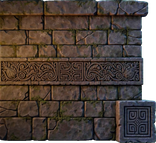
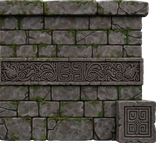
Goliath's yard: Glen's evenly lit wall pieces, moss kept (Glen 11-16)
Claude-Session: https://claude.ai/code/session_018JCxWJ972csv1aoHy7ivxa

diff --git a/game/region.js b/game/region.js
@@ -146,7 +146,7 @@ const KIT = {
   // (stone: the top of the stone, px up from the piece's bottom), a boulder, the olive tree with its branch to stand on,
   // the round watchtower, a field gate, a low wall, a fig tree; and the foreground plants (fg_*: drawn over David, sliding faster)
   f_wall_left: { w: 187, h: 164, stone: 141 }, f_wall_mid: { w: 177, h: 151, stone: 141 }, f_wall_right: { w: 176, h: 162, stone: 141 },
-  w3_ywall_left: { w: 155, h: 143 }, w3_ywall_mid: { w: 144, h: 143 }, w3_ywall_right: { w: 156, h: 143 },   // (Glen 11-16: Goliath's yard, dark carved stone to match his door; tools/cut_yard_wall.py)
+  w3_ywall_left: { w: 153, h: 143 }, w3_ywall_mid: { w: 142, h: 143 }, w3_ywall_right: { w: 156, h: 143 },   // (Glen 11-16: Goliath's yard, dark carved stone to match his door; tools/cut_yard_wall.py)
   f_rock: { w: 179, h: 117 }, f_ezel: { w: 211, h: 519 }, f_olive: { w: 536, h: 520 }, f_tower: { w: 281, h: 376 }, f_tower_low: { w: 281, h: 290 }, f_gate: { w: 178, h: 159 },   // (f_tower_low, 11-11: the bottom 86 px off, so it stands sunk in the ground: the Road to Nob)
   f_lowwall: { w: 202, h: 83 }, f_fig: { w: 252, h: 256 }, fg_grass: { w: 313, h: 310 }, fg_branch: { w: 218, h: 457 }, fg_thorn: { w: 317, h: 191 },
   // (Glen 11-05) the Town kit, assets/rooms/gibeah/kit_town: flat roofs in three (top: the walking top, px down from the

diff --git a/tools/cut_yard_wall.py b/tools/cut_yard_wall.py
@@ -6,7 +6,7 @@ import numpy as np
 from PIL import Image
 from scipy import ndimage
 SRC, OUT, H = "../david-sling-2-art/w3/source/yard_wall_", "assets/rooms/w3/kit/w3_ywall_", 143
-LIFT = 1.45
+LIFT = 1.0   # (11-16: his second set, evenly lit; 1.45 for the first, dusk-lit set, kept as *_dusk.png)
 for part in ("left", "mid", "right"):
     x = np.asarray(Image.open(SRC + part + ".png").convert("RGB")).astype(int)
     r, g, b = x[..., 0], x[..., 1], x[..., 2]
@@ -19,7 +19,7 @@ for part in ("left", "mid", "right"):
     bx0, bx1 = row.min(), row.max() + 1
     x0 = xs.min() if part == "left" else bx0 + 3
     x1 = xs.max() + 1 if part == "right" else bx1 - 3
-    rgb = x.copy(); spill = green | ((g > r + 10) & (g > b + 10)); rgb[..., 1] = np.where(~green & (g > np.maximum(r, b)), np.maximum(r, b), g)
+    rgb = x.copy(); rim = a & ~ndimage.binary_erosion(a, iterations=4); rgb[..., 1] = np.where(rim & (g > np.maximum(r, b)), np.maximum(r, b), g)   # (green spill only at the edge: his moss stays)
     # (the pieces are lit from one side: each column's light evened out so they repeat without seams, then lifted to
     #  read in the game's dusk)
     lum = rgb[..., :3].mean(-1); cm = np.array([lum[y0:y1, i][a[y0:y1, i]].mean() if a[y0:y1, i].sum() > 50 else np.nan for i in range(x.shape[1])])
